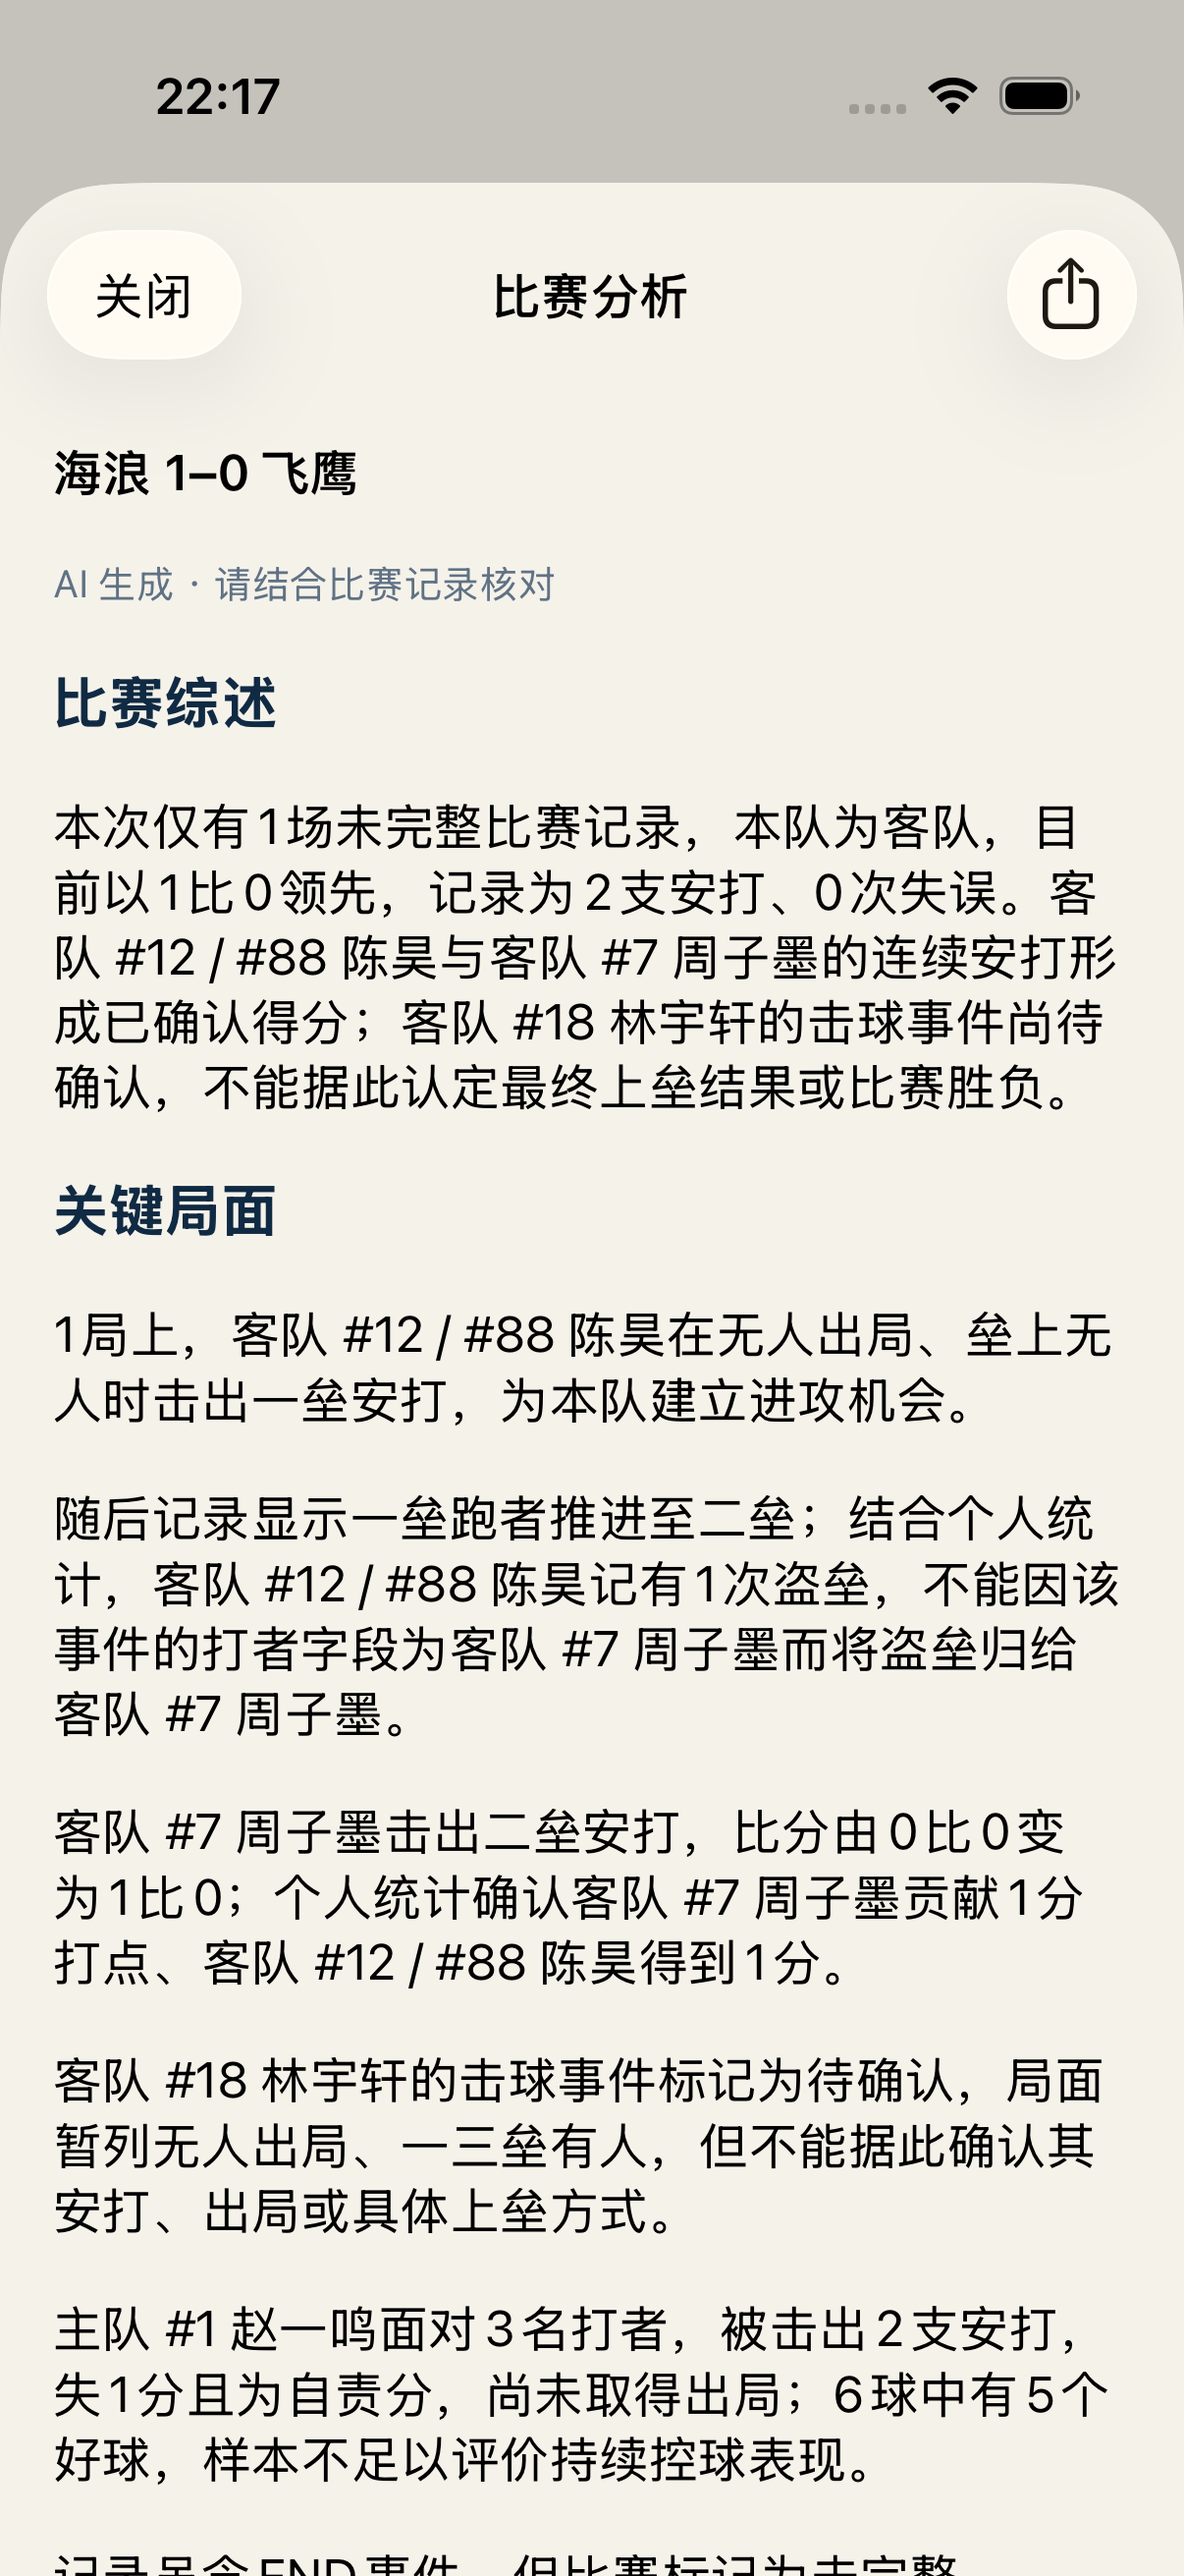
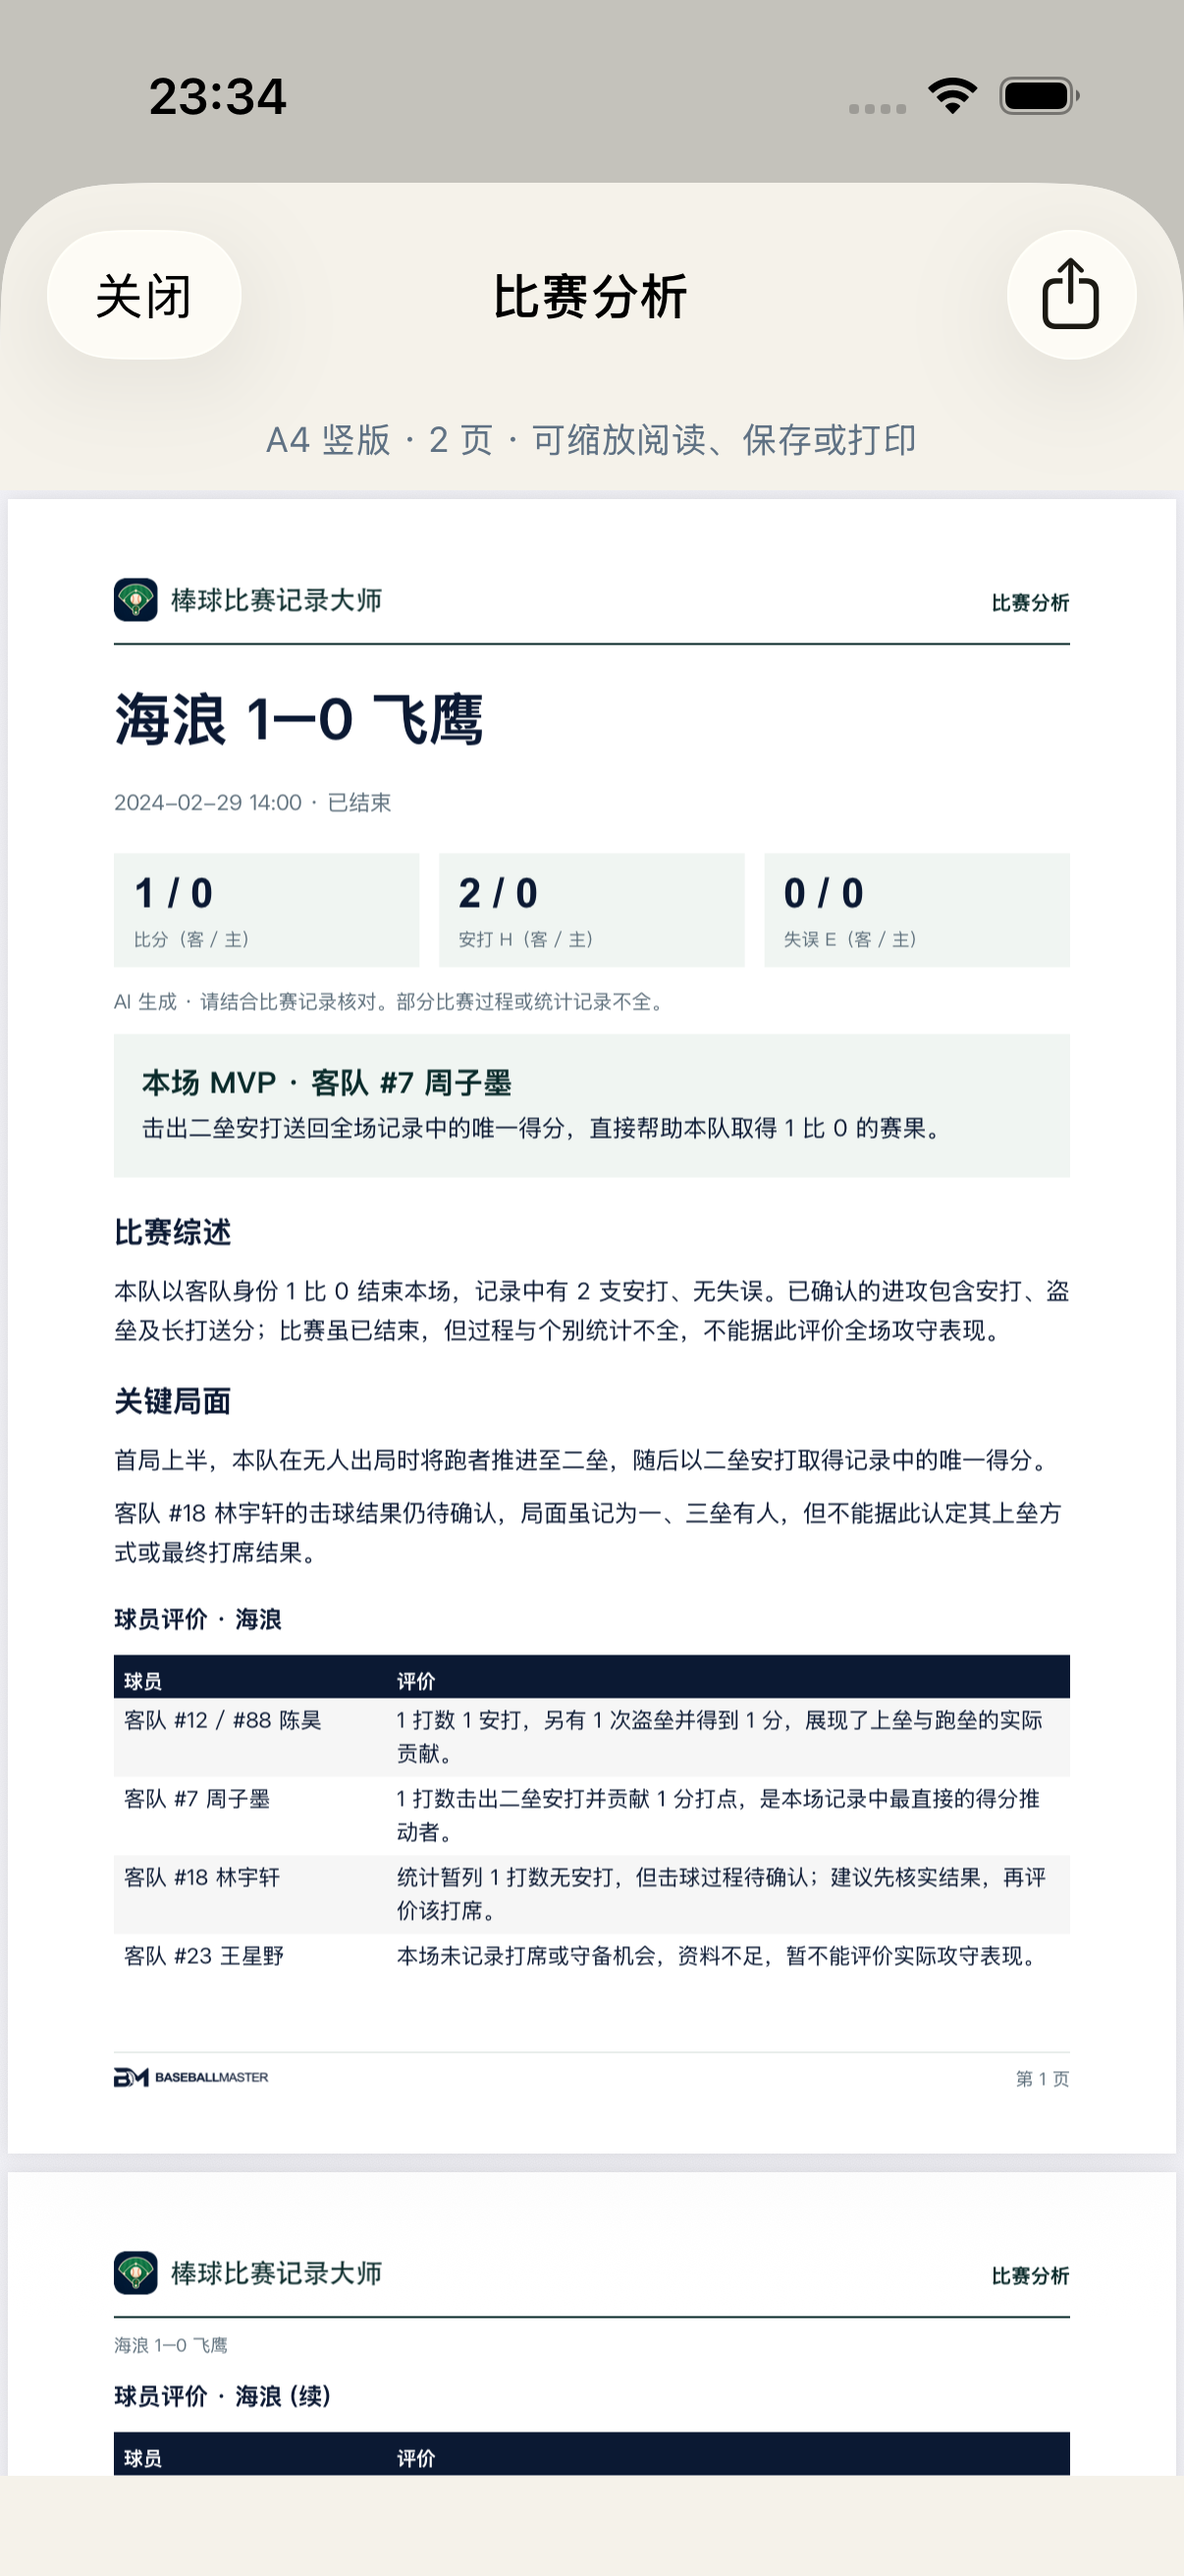
Restore 6.1-inch store gallery and show final analysis PDF in WeChat artwork

diff --git a/ios/docs/CURRENT.md b/ios/docs/CURRENT.md
@@ -9,7 +9,7 @@
 | 本版计划 | [3.1.2 发布功能计划](<plans/3.1.2 发布功能计划.md>)；[上版计划](<plans/3.1.1 发布功能计划.md>) |
 | 3.1.3 TestFlight 候选 | [3.1.3 发布功能计划](<plans/3.1.3 发布功能计划.md>)。候选分支整合 [PR #67](https://github.com/chending0418-ship-it/baseballMaster/pull/67) 的记分、直播、纠错、统计和滚动改动，以及 [PR #68](https://github.com/chending0418-ship-it/baseballMaster/pull/68) 的[比赛分析与品牌 PDF](plans/比赛分析.md)。整合验收完成。Build 4 加入四垒跑者确认图和守备栏排版调整。用户于 2026-11-17 确认 Build 4 已从 TestFlight 安装，四个主 Tab 仍有卡顿。Build 5 已修正主 Tab 重复刷新与共享比赛的无变化写入，Pro 击球后复用四垒确认图，签名归档已交付，待用户上传及真机复核。线上球队服务已启用比赛分析。 |
 | 3.1.3 Build 6 | 已完成 Release 签名归档。11 月 18 日 13:27（北京时间）上海球队服务已启用球队赛程。公网独立记分员和成员身份验证了发布、查看、改期、取消和重试去重。2026-11-18，用户确认已将 Build 6 上传至 TestFlight。Apple 构建处理、测试组分发及真机安装待确认。见[版本计划 I313-11](<plans/3.1.3 发布功能计划.md>) 与[已合并 PR #71](https://github.com/chending0418-ship-it/baseballMaster/pull/71)。 |
-| 3.1.3 送审资料 | 发布分支已通过 [PR #72](https://github.com/chending0418-ship-it/baseballMaster/pull/72) 合入 main。[送审清单](releases/3.1.3/送审清单.md)含商店文案、审核步骤和待补的隐私说明与审核码；另备微信一页图。 |
+| 3.1.3 送审资料 | 发布分支已通过 [PR #72](https://github.com/chending0418-ship-it/baseballMaster/pull/72) 合入 main。[送审清单](releases/3.1.3/送审清单.md)含商店文案、审核步骤和待补的隐私说明与审核码；已备 6.1 英寸常驻功能与新版截图、含球队赛程及赛后 PDF 分析的微信一页图。 |
 | 捕手守备统计 | [3.1.3 的 Build 3](<plans/3.1.3 发布功能计划.md>) 已支持捕手阻杀 CCS 和捕逸 PB 的记分、守备统计与 PDF。 |
 | 后续版本 | [3.1.5 发布功能计划](<plans/3.1.5 发布功能计划.md>)。转播交接与重启串场已修复，待用模拟器配合 OBS 检查及部署。总 Admin 已上线语音开启码管理和发放备注，App 单局面录入已接入。主屏幕改名已核对，Duo 外屏图标文字会截断。单投手球数可直接输入，球数与登板局数到限只提醒。六项改动已整合。同一个模拟器构建的 iPhone、iPad 和 Duo 回归共 22 项通过。 |
 | 3.1.5 送审材料 | [审核文案、截图与提交清单](releases/3.1.5/APPSTORE-填写清单.md)已备妥，App 已增加录音前同意流程，公开隐私政策和审核专用开启码待完成。 |

diff --git a/docs/design/marketing/3.1.3/source/来源.md b/docs/design/marketing/3.1.3/source/来源.md
@@ -1,13 +1,14 @@
 # 截图与品牌源
 
-所有比赛示例均来自合成测试资料。微信主视觉使用真实「即将进行」区域裁切。iOS 实际界面保留原始文字和队名。
+所有比赛示例均来自合成测试资料。微信图分别截取同一版球队赛程卡与单场 PDF 的比分、MVP 区域。iOS 实际界面保留原始文字和队名。
 
 | 文件 | 来源 |
 | --- | --- |
 | schedule.png | 3.1.3 球队赛程 Build 6 双身份 UI 测试，ui-attachments/CB7F97DC-8094-47EB-B901-3BF470DC8433.png |
 | runner-iphone.png、runner-ipad.png | 3.1.3 Build 5 的 iphone-final-shots 与 ipad-final-shots 中的 runner-review.png；Build 6 沿用四垒确认界面 |
-| analysis.png | 比赛分析 provider-demo/screenshots/03-real-overview.png，海浪对飞鹰合成比赛的在线生成报告 |
-| iPad 现场记分 | 复用 3.1.2/appstore/source/ipad-01.png 的合成比赛画面 |
+| analysis.png | season-filtered-typography/iPhone.xcresult 的附件 06B5732B-FE05-4EA3-8EEB-70939F2B5DF4.png，3.1.3 最终中文断行后的「比赛分析」两页 PDF 实拍。海浪 1–0 飞鹰的合成比赛，回放已生成的分析内容。已对照 Build 6 的报告生成和预览代码。 |
+| statistics.png | provider-demo/screenshots/05-season-entry.png，青岛海浪三场合成记录的年度统计入口。 |
+| 常驻 iPhone 与 iPad 图片 | 3.1.2/appstore/source/iphone-01 至 06 与 ipad-01、ipad-02；来源、验收批次、合成数据标记和摘要见[原素材清单](../../3.1.2/appstore/source/content.json)。现场记分和球队／球员统计在 2.3、3.0 至 3.0.1 的商店记录中反复保留。 |
 | scorekeeper-horizontal-reverse.svg | 工作区 brand/specifications/1.3/assets，记录大师正式反白横标 |
 | baseballmaster-horizontal-reverse.svg | 工作区 brand/references/baseballmaster-2026-10-22，BM 正式反白横标签名 |
 

diff --git a/ios/docs/releases/3.1.3/送审清单.md b/ios/docs/releases/3.1.3/送审清单.md
@@ -20,7 +20,14 @@
 
 ## 截图
 
-交付包内的 screenshots/iphone-6.9 为 1320 × 2868，含球队赛程、四垒确认、比赛分析。screenshots/ipad-13 为 2064 × 2752，含四垒确认与 iPad 现场记分。按数字顺序上传各设备的 PNG。截图使用实际模拟器界面和合成资料。[Apple 截图规格](https://developer.apple.com/help/app-store-connect/reference/app-information/screenshot-specifications/)
+主用 6.1 英寸单独包为 **1179 × 2556**（iPhone 14 Pro／15 等灵动岛中屏）。完整包同时提供 **1170 × 2532**（iPhone 13／14 等 Face ID 中屏）、6.9 英寸 1320 × 2868 和 iPad 13 英寸 2064 × 2752。按 Connect 的设备栏选对应文件夹，按文件名顺序上传 JPEG。[Apple 截图规格](https://developer.apple.com/help/app-store-connect/reference/app-information/screenshot-specifications/)
+
+| 目录 | 图片 |
+| --- | --- |
+| screenshots/iphone-6.1、screenshots/iphone-6.1-face-id、screenshots/iphone-6.9 | 各 10 张。01 现场记分、02 球队统计、03 基础版与 Pro、04 落点与传球、05 击球结果、06 批量名单、07 球员击球落点、08 球队赛程、09 四垒确认、10 赛后分析 |
+| screenshots/ipad-13 | 3 张。01 现场记分、02 批量名单、03 四垒确认 |
+
+现场记分与统计沿用历版常驻主题；赛后分析采用最终 A4 竖版 PDF 预览，展示海浪对飞鹰合成比赛。微信一页图同样取自这份报告。单独包只含 6.1 英寸的 10 张上传图，总览另行提供。
 
 ## 送审前需完成
 
